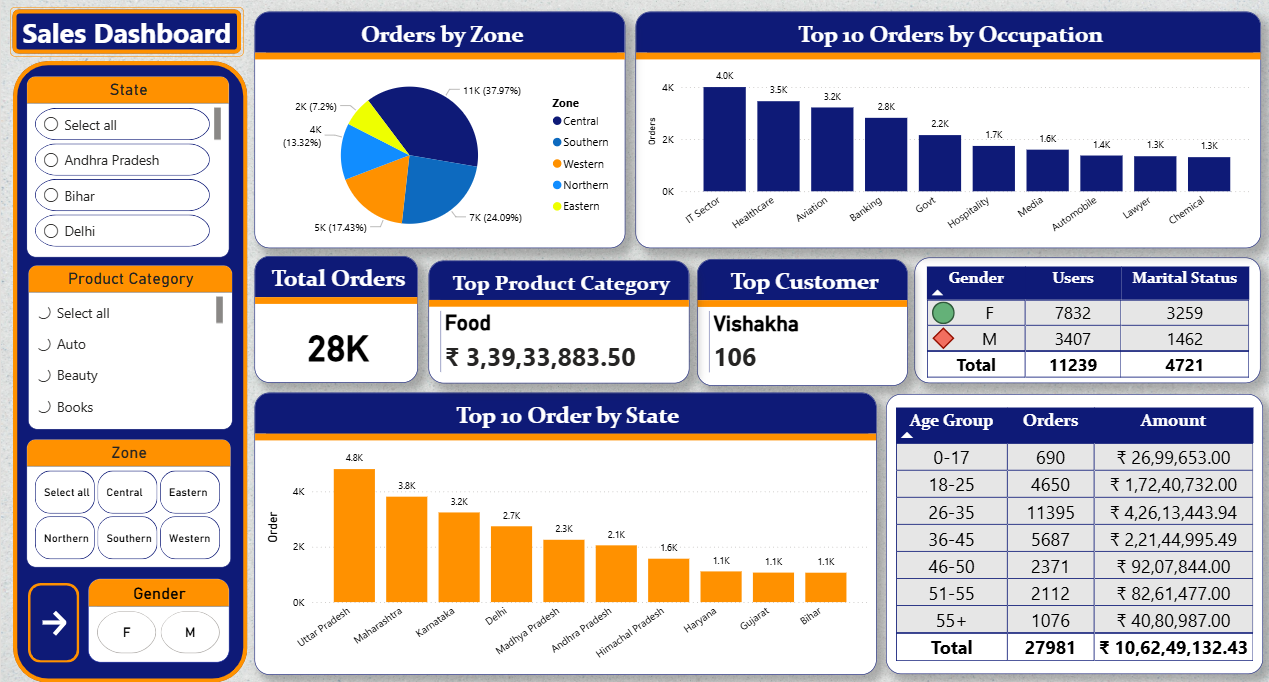
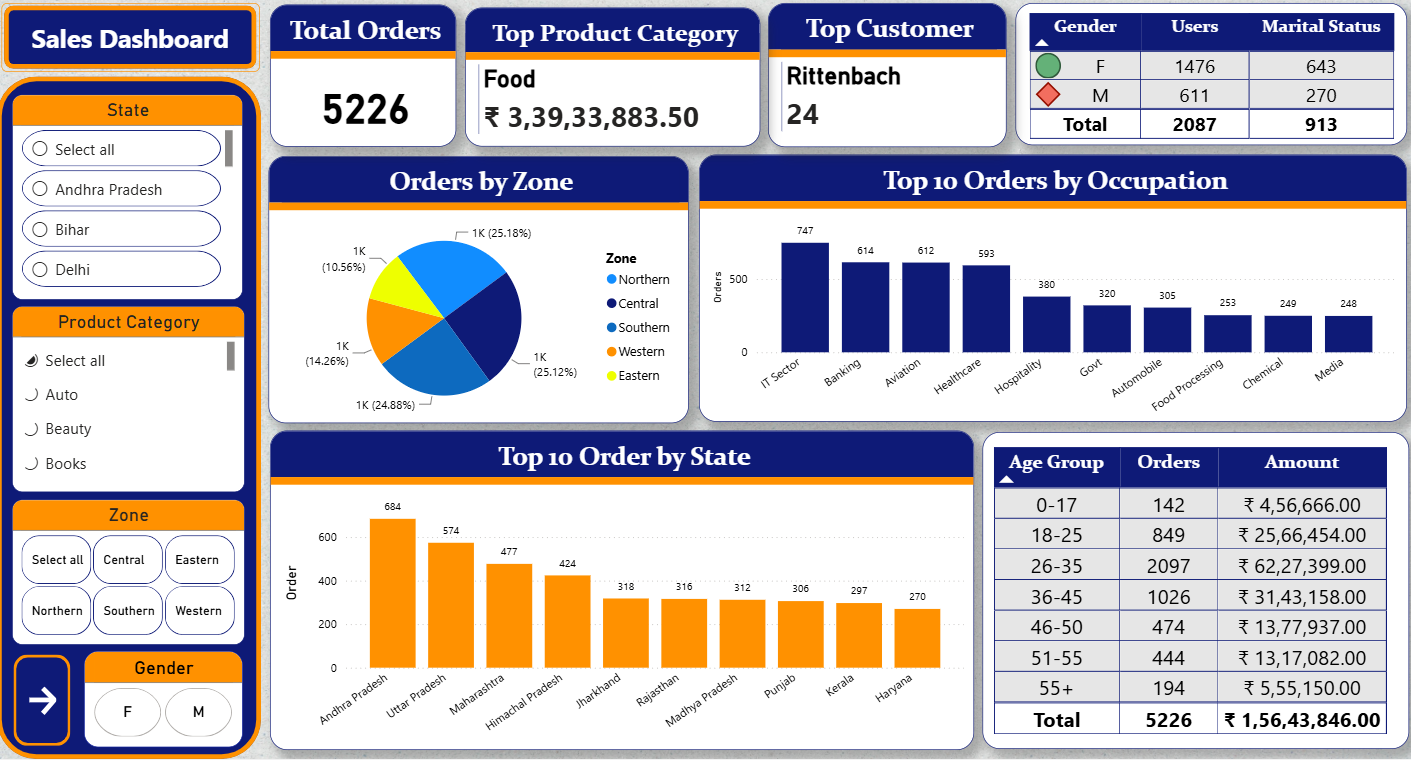
Updated Readme file

diff --git a/README.md b/README.md
@@ -25,3 +25,80 @@
 
   
 ![Dashboard page 2](https://github.com/Rohitpatil1304/Bussiness_Inteligence_Analysis/blob/main/Dashboard%20page%202.png)
+
+## Analysis Questions
+
+1. What are the top product categories purchased by females aged 26–35?
+-> Food 
+
+2. Which occupation accounts for the highest total sales amount in Uttar Pradesh?
+-> IT Sector 
+
+3. How does the total spend of married versus unmarried customers compare within the IT sector?
+-> Married Status has : 6.55 M rupees 
+   UnMarried Status has : 8.20 M rupees
+
+4. Which age group generates the highest number of orders in the Southern zone?
+-> 26 - 35 age group generates the highest number of orders.
+
+5. What are the leading product category purchased by male customers in Maharashtra?
+-> Food Category 
+
+6. Which state generates the highest number of orders for Electronics & Gadgets?
+-> Andhra Pradesh (684 orders)
+
+7. Which occupation leads in total orders in Gujarat?
+-> Aviation (156 orders)
+
+8. Which state places the highest number of orders within the Healthcare occupation?
+-> Uttar Pradesh 
+
+9. What is the gender distribution of buyers for the Food category versus Electronics & Gadgets?
+-> Females-3247 and Males-1330
+
+10. Which age groups account for the majority of sales in the Banking sector?
+-> 26 - 35 age group
+
+## Strategic Recommendations
+
+### 1. Double Down on the Core Demographic (The 26–35 Working Woman)
+
+- **Insight:** Female customers drive **~70% of total revenue**, and individuals aged **26–35** contribute over **40% of all sales**, heavily concentrated in the **IT, Healthcare, and Aviation** sectors.
+- **Action:**
+        - Tailor marketing messaging, digital ads, and email campaigns specifically to working female professionals aged 25–40.
+        - Launch weekday evening flash sales or corporate wellness/lifestyle tie-ins targeted at corporate corridors (tech parks and business districts).
+
+### 2. Optimize Product Bundling Around "Food" and "Apparel"
+
+- **Insight:** The **Food** category generates nearly **32% of total sales** (₹3.39 Cr), while **Clothing & Apparel** leads in transaction volume (6,634 orders).
+- **Action:**
+        - **Cross-Sell Bundles:** Bundle low-volume/high-margin categories (e.g., Beauty, Household items, Books) with popular Food and Apparel orders by offering "Add-on discounts at checkout."
+        - **Subscription / Repeat Purchase Model:** Introduce recurring subscription boxes for staple Food and Pantry items to lock in lifetime customer value.
+
+### 3. Regional Penetration & Supply Chain Focus
+
+- **Insight:** **Uttar Pradesh, Maharashtra, Karnataka, and Delhi** together generate **over 55% of total sales revenue**.
+- **Action:**
+        - Establish localized micro-fulfillment hubs in high-density metro areas (e.g., NCR, Mumbai–Pune belt, Bengaluru) to enable faster delivery and reduce fulfillment costs.
+        - For growing secondary markets (e.g., Madhya Pradesh and Andhra Pradesh), run targeted regional promotions focusing on high-performing categories like Electronics and Footwear.
+
+### 4. Capitalize on Unmarried & High-Disposable Income Buyers
+
+- **Insight:** Unmarried customers account for higher spending in key segments like IT (₹8.20M unmarried vs. ₹6.55M married).
+- **Action:**
+        - Promote lifestyle, single-serving gourmet foods, gadgets, and personal fitness/fashion items tailored to independent young professionals living alone or with roommates.
+
+### 5. Activate Underperforming Categories with High Potential
+
+- **Insight:** High-ticket categories like **Furniture (5.1%)**, **Sports (3.4%)**, and **Beauty (1.8%)** have relatively low market penetration despite high margins.
+- **Action:**
+        - Introduce **"No-Cost EMI"** or **"Buy Now Pay Later" (BNPL)** options for Furniture, Electronics, and Fitness gear to lower conversion barriers for younger demographics (18–25 age group).
+        - Run seasonal campaigns (e.g., Festive home makeover sales, Back-to-work / Fitness challenges) to boost these slower categories.
+
+### 6. Customer Retention & High-Spender Loyalty Program
+
+- **Insight:** Repeat power buyers (like top customer *Vishakha* with 100+ orders) demonstrate high brand loyalty.
+- **Action:**
+        - Roll out a tiered VIP/Loyalty rewards program (e.g., priority shipping, early access to new launches, cashback credits) to convert one-time buyers into frequent repeat shoppers.
+
+
